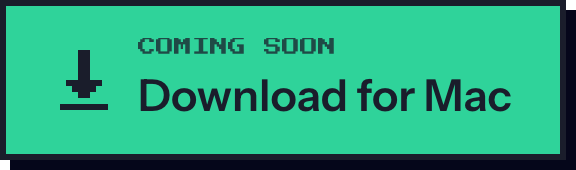
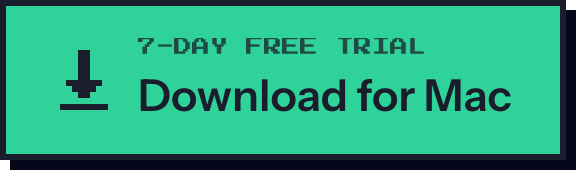
Price, free trial and download from Releases

Changed region(s): [[0.2188, 0.2059, 0.75, 0.3235]]

diff --git a/README.md b/README.md
@@ -1,13 +1,11 @@
 <p align="center">
-  <a href="https://pingster.mekaigames.com"><img src="assets/banner.gif" alt="Pingster: tiny pixel crew members walking on the Dock, one of them fighting a glitch" width="100%"></a>
+  <a href="https://mekaigames.com/pingster"><img src="assets/banner.gif" alt="Pingster: tiny pixel crew members walking on the Dock, one of them fighting a glitch" width="100%"></a>
 </p>
 
 <p align="center">
-  <a href="https://pingster.mekaigames.com"><img src="assets/btn-download.png" alt="Download Pingster for Mac (coming soon)" height="58"></a>
+  <a href="https://github.com/mekai-games/pingster/releases/latest/download/Pingster.dmg"><img src="assets/btn-download.png" alt="Download Pingster for Mac: 7-day free trial" height="58"></a>
   &nbsp;
-  <a href="https://pingster.mekaigames.com"><img src="assets/btn-appstore.png" alt="Pingster on the Mac App Store (coming soon)" height="58"></a>
-  &nbsp;
-  <a href="https://pingster.mekaigames.com"><img src="assets/btn-site.png" alt="Visit the Pingster website" height="58"></a>
+  <a href="https://mekaigames.com/pingster"><img src="assets/btn-site.png" alt="Visit the Pingster website" height="58"></a>
 </p>
 
 <p align="center">
@@ -17,8 +15,10 @@
 </p>
 
 <p align="center">
-  <img alt="macOS: coming soon" src="https://img.shields.io/badge/macOS-coming%20soon-2fd39a?style=flat-square&labelColor=1a1d2b">
-  <img alt="Windows: later" src="https://img.shields.io/badge/Windows-later-a6abd6?style=flat-square&labelColor=1a1d2b">
+  <img alt="macOS 11 or later" src="https://img.shields.io/badge/macOS-11%2B-2fd39a?style=flat-square&labelColor=1a1d2b">
+  <img alt="Apple silicon and Intel" src="https://img.shields.io/badge/Apple%20silicon%20%2B%20Intel-universal-cfd3ff?style=flat-square&labelColor=1a1d2b">
+  <img alt="6,99 € once, 7-day free trial" src="https://img.shields.io/badge/6%2C99%20%E2%82%AC%20once-7--day%20free%20trial-f2b33d?style=flat-square&labelColor=1a1d2b">
+  <img alt="Latest version" src="https://img.shields.io/github/v/release/mekai-games/pingster?style=flat-square&labelColor=1a1d2b&color=2fd39a&label=version">
   <img alt="No account, no ads, no tracking" src="https://img.shields.io/badge/no%20account%20%C2%B7%20no%20ads%20%C2%B7%20no%20tracking-f2b33d?style=flat-square&labelColor=1a1d2b">
 </p>
 
@@ -68,23 +68,24 @@ it, pat it. It is there to help you with the day, and it needs a bit of help fro
 
 | | |
 |---|---|
-| **Mac** | Coming soon, from [pingster.mekaigames.com](https://pingster.mekaigames.com) and the Mac App Store. |
-| **Windows** | Later. |
+| **Mac** | [Download the free trial](https://github.com/mekai-games/pingster/releases/latest/download/Pingster.dmg): everything works for 7 days. Then [get your license](https://mekaigames.com/pingster#buy) for 6,99 €, once. |
+| **Needs** | macOS 11 or later, Apple silicon or Intel. |
 
-Pingster lives in the menu bar: no Dock icon, no window in your way.
+Open the `.dmg`, drag Pingster into Applications, open it. It lives in the menu bar: no Dock icon, no window in your way.
+Every version is in [Releases](../../releases).
 
 ## Privacy
 
 Everything stays on your computer. No account, no ads, no tracking, nothing sent anywhere.
-Read the [privacy policy](https://pingster.mekaigames.com/privacy/).
+Read the [privacy policy](https://mekaigames.com/pingster/privacy).
 
 ## FAQ
 
 <details>
-<summary><b>Is it free?</b></summary>
+<summary><b>How much is it?</b></summary>
 <br>
-Pingster comes with 3 free crew members. The others join you as you level up, or you can get them right away
-from the shop.
+6,99 €, one payment, with free updates. Try everything free for 7 days first. All 22 crew members are included:
+Alien, Pilot and Medic from day one, the others join you as you level up. One license works on up to 3 Macs.
 </details>
 
 <details>
